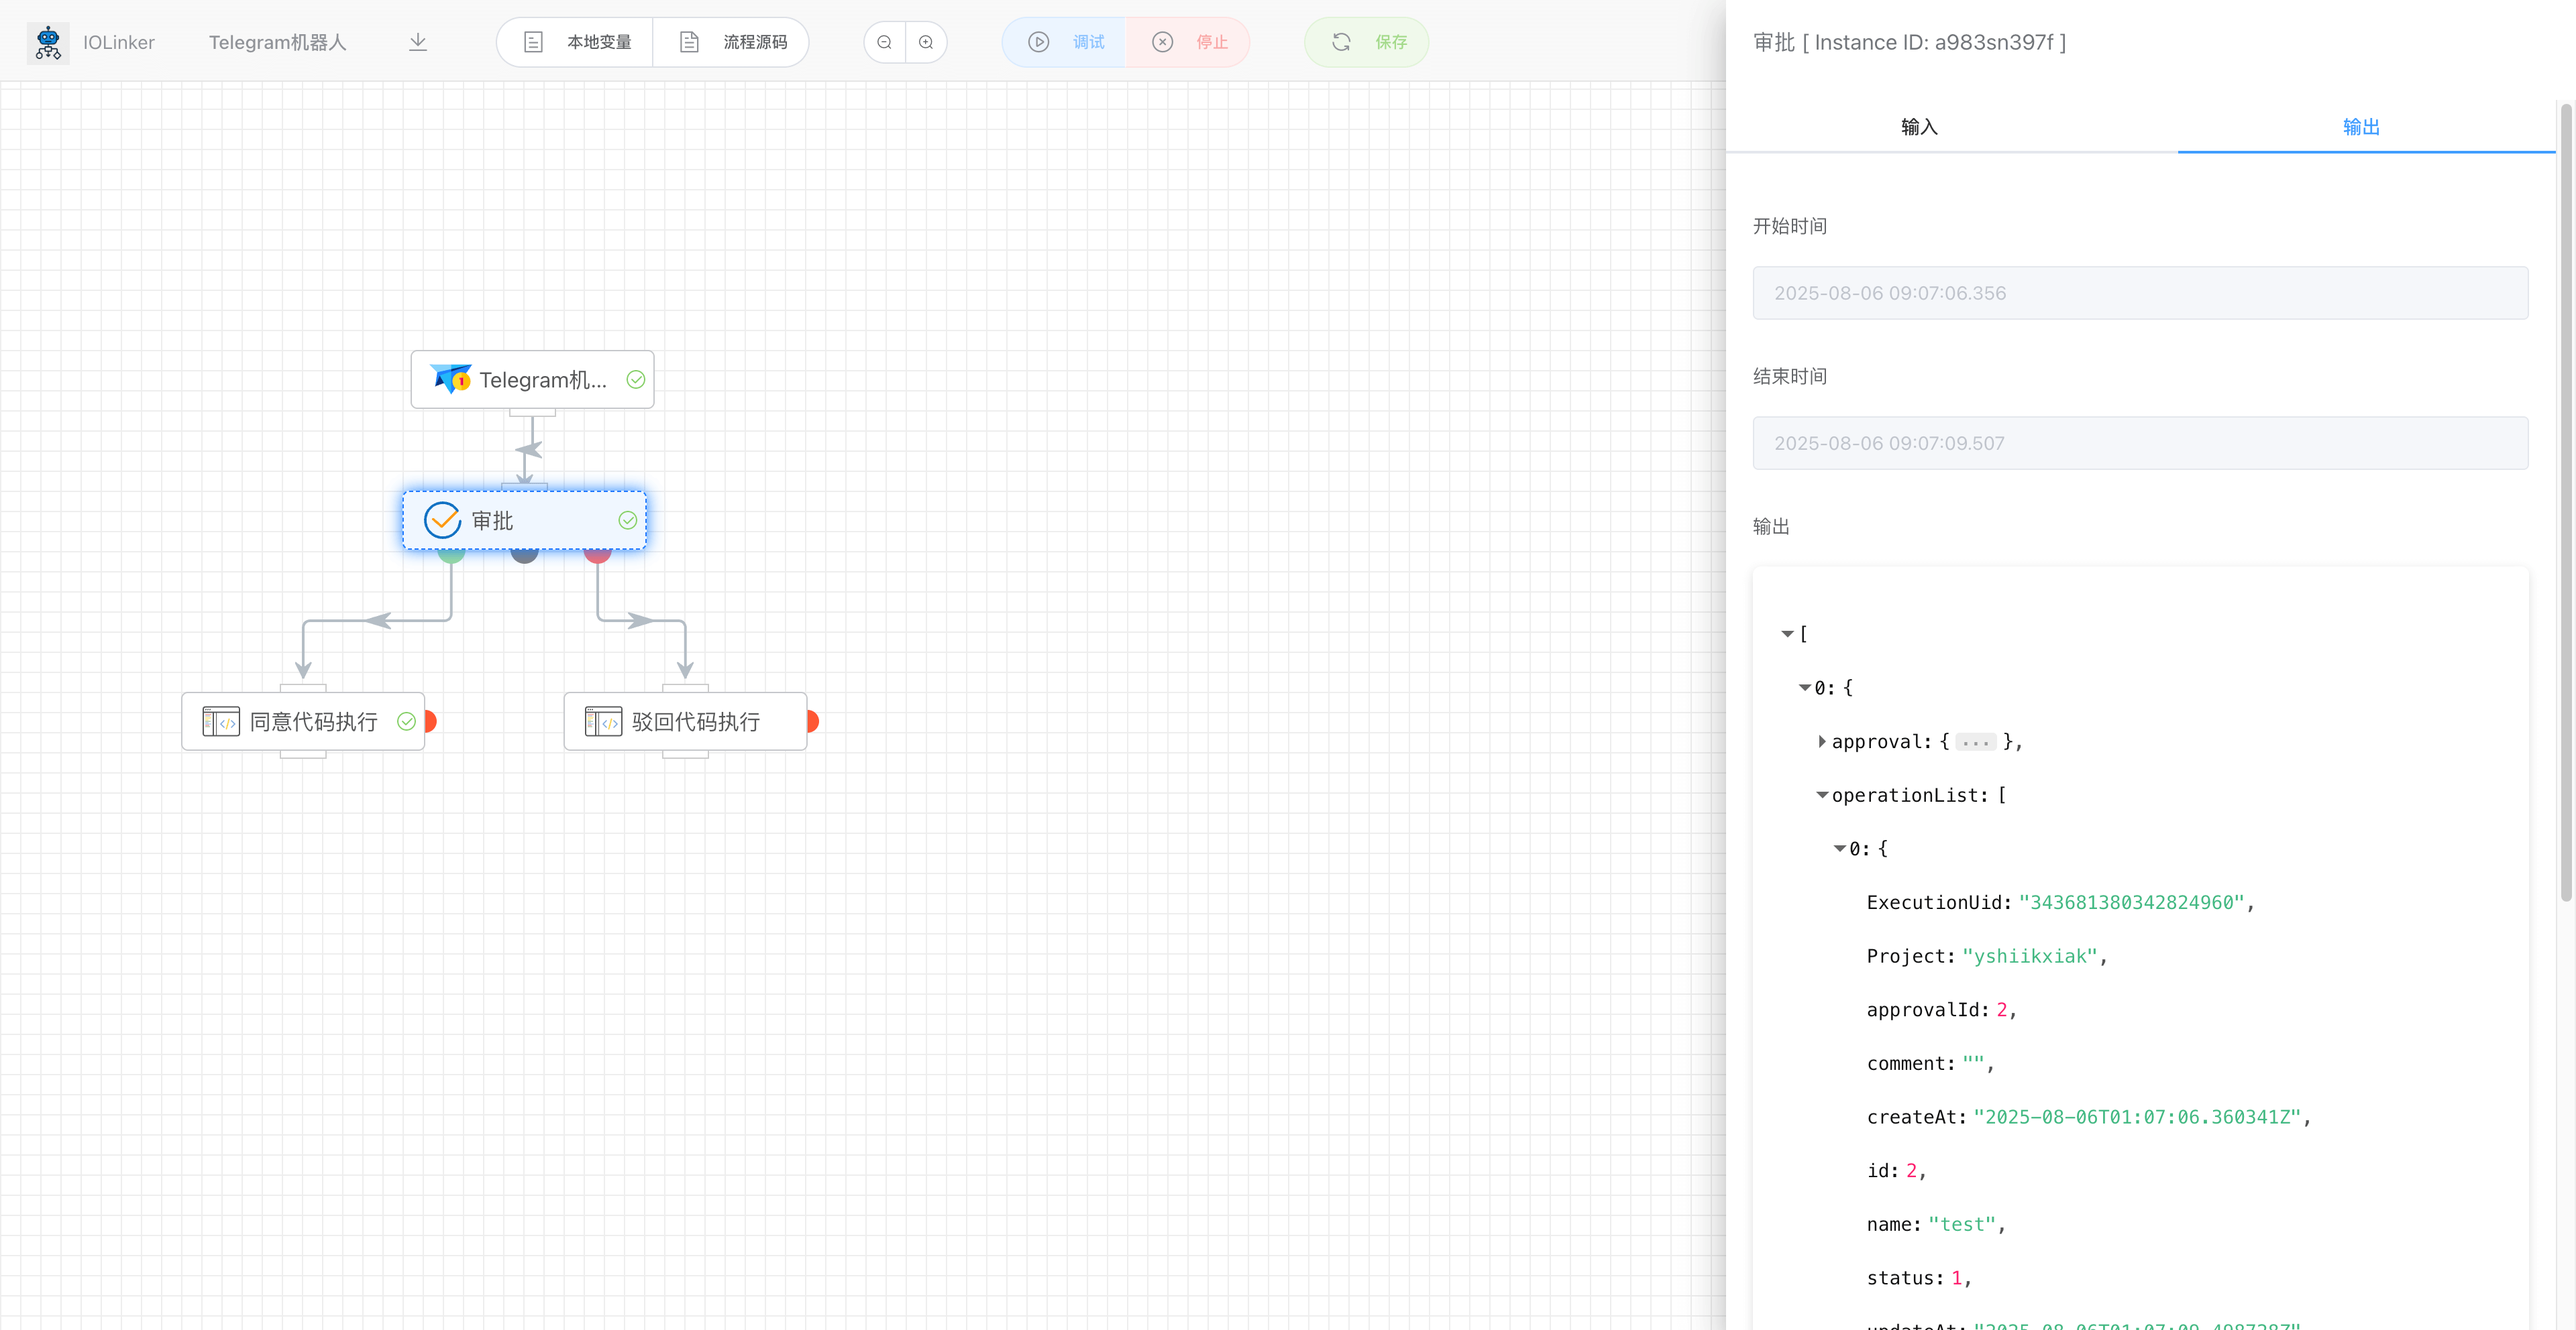
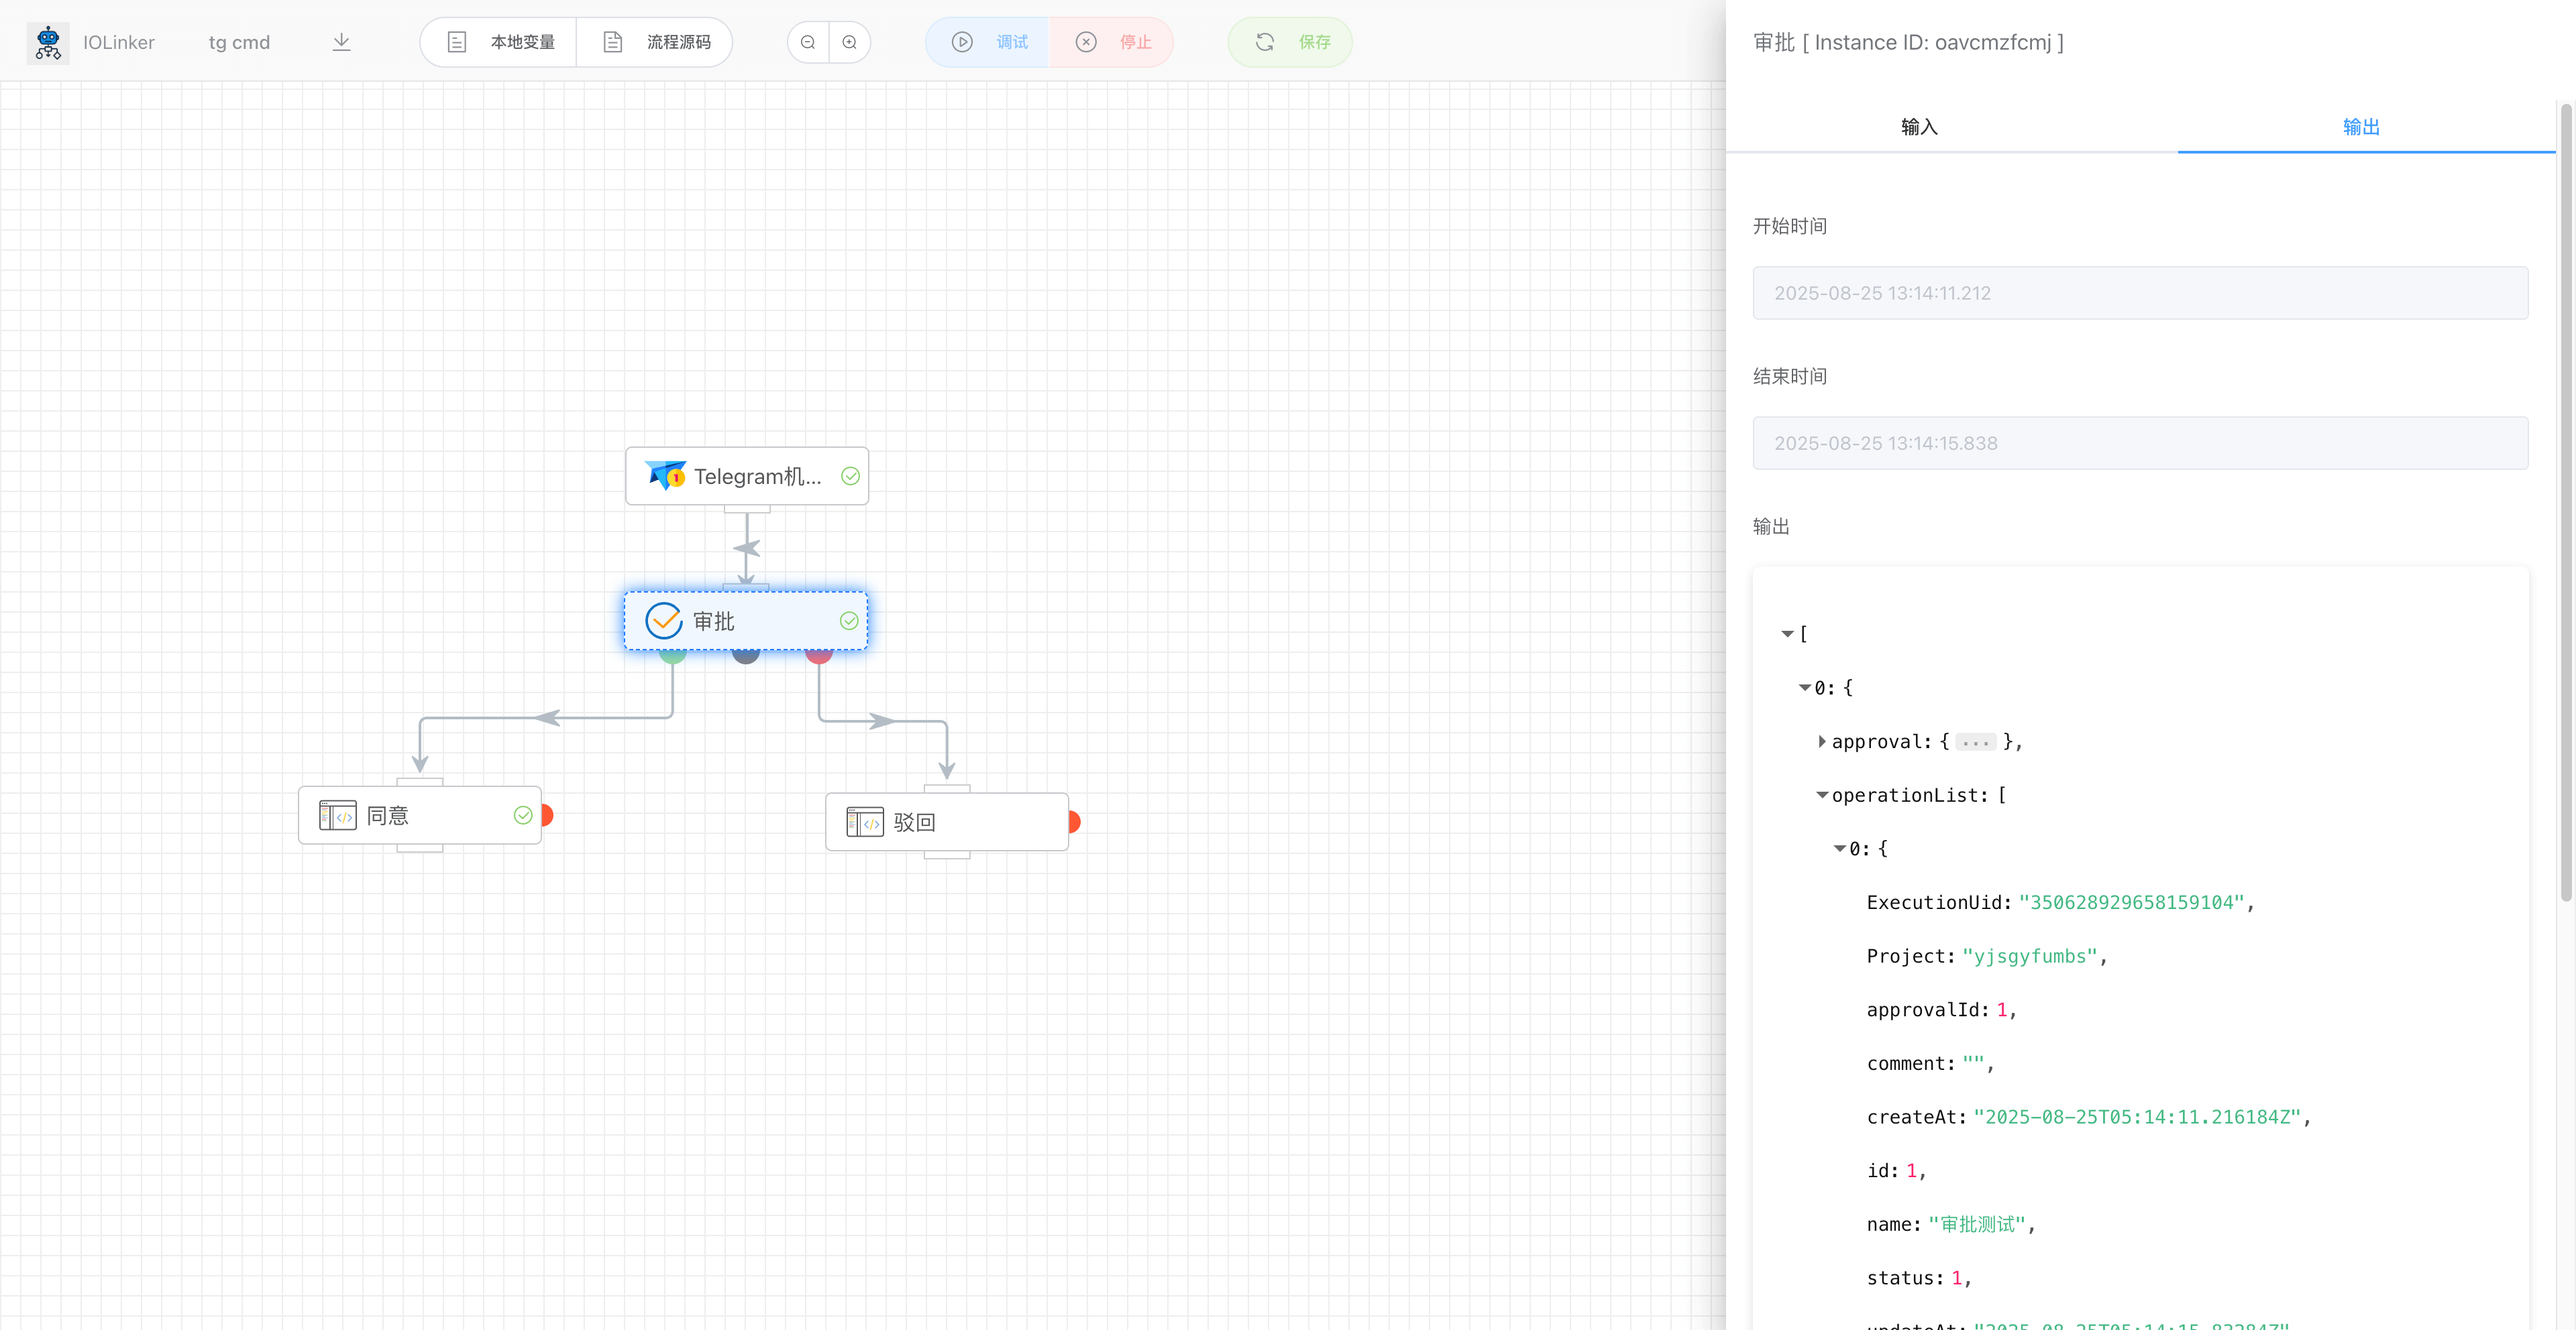
update how-to-create-telegram-bot-in-one-minute.md

diff --git a/docs/zh/blog/how-to-create-telegram-bot-in-one-minute.md b/docs/zh/blog/how-to-create-telegram-bot-in-one-minute.md
@@ -61,9 +61,7 @@ meta:
 
 
 
-## 三、实现方式
-
-### 1、Telegram Python库
+## 三、Python库实现
 
 相信下面这个库，很多用python实现Telegram机器人的开发者应该见过或者使用过。这个开源Python库封装了很多Telegram的官方API，大大降低了调用Telegram接口的难度。但是还是无法避免需要写大量的代码，特别是要想实现有复杂交互能力的Telegram机器人，还涉及到各种编程技术以及涉及到本地数据的存储维护等问题。
 
@@ -83,13 +81,13 @@ Telegram官网机器人API（非常多！！）：
 
 
 
-### 2、使用IOLinker 编排工具
+## 四、IOLinker 编排工具实现
 
-#### (1) 下载iolinker并启动
+### (1) 下载iolinker并启动
 
 参考官网文章：[如何运行Iolinker](https://iolinker.com/zh/how-to-run-iolinker.html) 
 
-#### (2) 创建Telegram凭据
+### (2) 创建Telegram凭据
 
 这里相信大部分人应该都有，就不详细展开，主要是去官方的BotFather申请。
 
@@ -103,13 +101,13 @@ Telegram官网机器人API（非常多！！）：
 
 - 启用内置预设命令，启用后，默认就可以使用`/start`、`/man`和`/list`三个自定义命令，没写一行代码就可以轻松实现指令功能。如果要修改描述，可以到创建凭据的页面进行修改。
 
-  <img src="./img/tg-bot-start-cmd.png" alt="tg-bot-start-cmd" alt="telegram 机器人/start命令" title="telegram 机器人/start命令" style="zoom:50%;" />
+  <img src="./img/tg-bot-start-cmd.png" alt="tg-bot-start-cmd" title="telegram 机器人/start命令" style="zoom:50%;" />
 
   自定义命令列表：
 
   <img src="./img/builtin-cmd-list.png" alt="builtin-cmd-list" title="内置的自定义命令" style="zoom:50%;" />
 
-#### (3) 创建并配置Telegram机器人触发器
+### (3) 创建并配置Telegram机器人触发器
 
 点击【编辑】菜单栏下的【添加流程】按钮：
 
@@ -128,19 +126,29 @@ Telegram官网机器人API（非常多！！）：
 
 <img src="./img/set-tg-bot-trigger.png"  alt="设置Telegram Bot触发器配置页面" title="设置Telegram Bot触发器配置页面" style="zoom:50%;" />
 
-到这里，如果我们直接保存，并启用，实际上是可以运行了，只不过这里只是捕获用户的输入没有给用户实际反馈，实际如下：
+到这里，如果我们直接保存，并启用，实际上是可以运行了，只不过这里只是捕获用户的输入没有给用户实际反馈，实际如下。
 
-xxx
+IOLinker工具会自动注册创建的Telgram Bot命令到预设命令列表。
 
-在Telegram机器人输入`/start`指令后，我们可以在工作流列表中看到工作流响应执行的记录。
+<img src="./img/create_tg_nmap_cmd.png" alt="tg nmap cmd list" title="tg nmap预设命令" style="zoom:50%;" />
 
-<img src="./img/tg-bot-execution-list.png" alt="telegram bot执行记录列表" title="telegram bot执行记录列表" style="zoom:50%;" />
+我们人输入`/nmap -h 1.1.1.1`命令并带参数触发工作流运行（不带参数也可以，会使用默认值）。
 
-点击执行记录，可以看到详细的响应数据。
+<img src="./img/tg_nmap_cmd_trigger.png" alt="tg nmap命令触发工作流" title="tg nmap命令触发工作流" style="zoom:50%;" />
 
-<img src="./img/telegram-bot-trigger-detail.png" alt="telegram bot执行详情" title="telegram bot执行详情" style="zoom:50%;" />
+在Telegram机器人输入`/nmap`指令后，我们可以在工作流列表中看到工作流响应执行的记录。
 
-#### (4) 添加Telegram Bot审批交互功能
+<img src="./img/tg-bot-execution-list.png" alt="telegram bot执行记录列表" title="telegram bot执行记录列表"  style="zoom:50%;" />
+
+点击执行记录，可以看到详细的响应数据。前面输入的参数会自动被解析提取出来：
+
+<img src="./img/telegram-bot-trigger-detail.png" alt="telegram bot执行详情" title="telegram bot执行详情"  style="zoom:50%;" />
+
+至此，我们就实现了机器人指令的输入和响应了，后续就可以添加其他的流程逻辑，例如发消息或发送审批交互按钮等。
+
+
+
+### (4) 添加Telegram Bot审批交互功能
 
 点击左侧的【逻辑组件】选择【审批】APP，拖入编辑器并双击配置。
 
@@ -160,13 +168,13 @@ xxx
 
 <img src="./img/set-tg-approval-bot-setting.png" alt="设置Telegram审批的同意、驳回和超时分支" title="设置Telegram审批的同意、驳回和超时分支"  style="zoom:50%;" />
 
-#### (5) 保存并启用
+### (5) 保存并启用
 
 保存后，可以再【流程管理】下的【机器人列表】看到创建的机器人信息，也可以在【工作流列表】看到。
 
 <img src="./img/telegram-bot-list.png" alt="telegram bot列表" title="telegram bot列表" style="zoom:50%;" />
 
-#### (6) 测试机器人
+### (6) 测试机器人
 
 打开创建的机器人，输入`/start`命令，我们会看到机器人给我们发送了审批的交互按钮。
 
@@ -178,4 +186,4 @@ xxx
 
 整个过程熟练的话，可以不到一分钟完成，相比过去写代码速度回高效很多！！
 
-<img src="./img/tg-bot-execution-detail-v2.png" alt="telegram bot执行详情" title="telegram bot执行详情"  style="zoom:50%;" />
+<img src="./img/tg-bot-execution-detail-v2.png" alt="telegram bot执行详情" title="telegram bot执行详情" style="zoom:50%;" />
